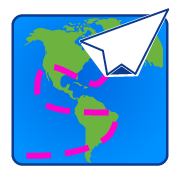
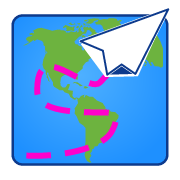
Brighten ocean gradient stops toward chart azure centre

diff --git a/branding/source/extract-chart-vector.py b/branding/source/extract-chart-vector.py
@@ -172,8 +172,12 @@ def ocean_colors(chart: np.ndarray, land: np.ndarray) -> tuple[str, str]:
     # Gradient center must be the lighter azure.
     if sum(int(hi[i : i + 2], 16) for i in (1, 3, 5)) < sum(int(lo[i : i + 2], 16) for i in (1, 3, 5)):
         hi, lo = lo, hi
-    if hi.lower() in ("#0068e0",) or int(hi[5:7], 16) < 160:
-        hi, lo = "#4EB0FF", "#1E90FF"
+    lum_hi = sum(int(hi[i : i + 2], 16) for i in (1, 3, 5))
+    lum_lo = sum(int(lo[i : i + 2], 16) for i in (1, 3, 5))
+    if lum_hi < lum_lo:
+        hi, lo = lo, hi
+    if int(hi[3:5], 16) < 170 or int(hi[5:7], 16) < 200:
+        return "#4EB0FF", "#1E90FF"
     return hi, lo
 
 
